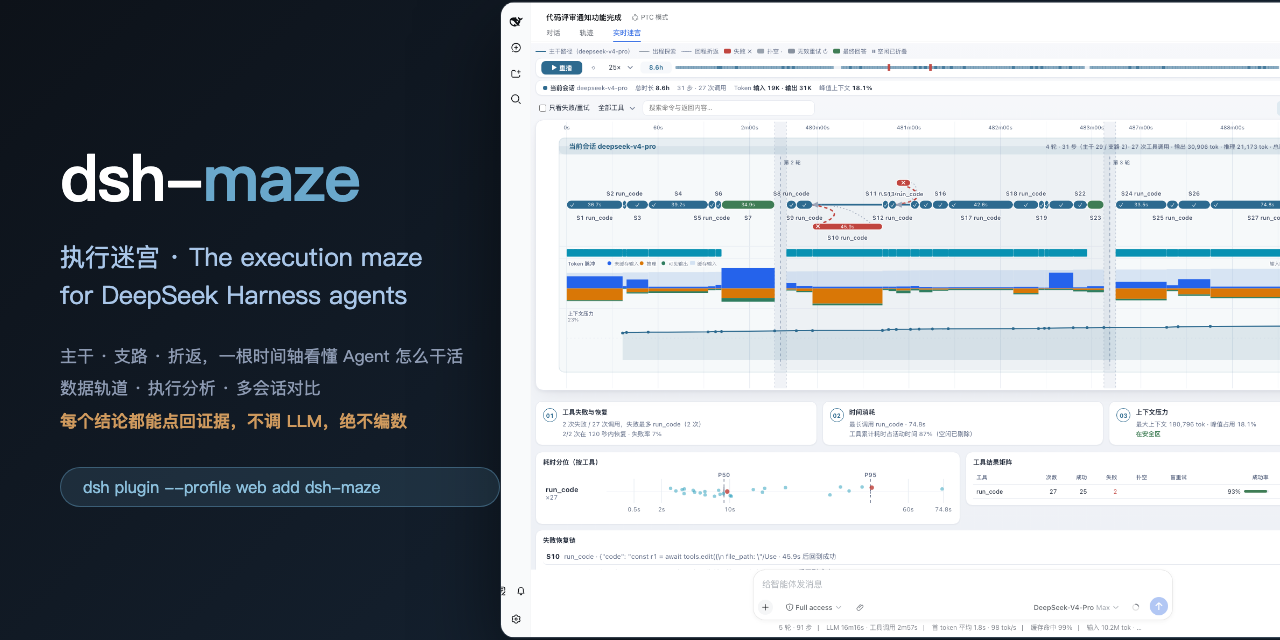
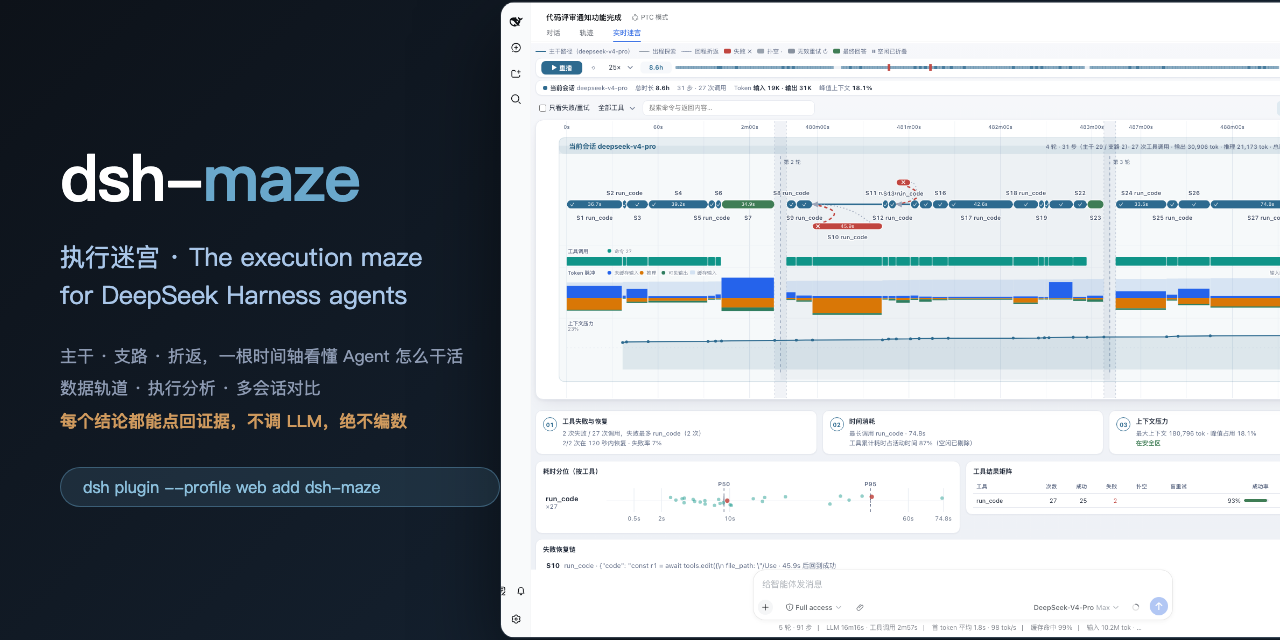
fix(viz): 轨道柱间留缝——密度色条与 Token 柱步步可分（吴昊反馈），全套素材定版重录
相邻步的柱子曾首尾相接连成一条带，看不出步的边界。密度色条右侧
让 1px、Token 柱让 1.5px（太窄时放弃留缝保可见）；缓存背景保持
连续——它是底色参照带不是逐步读数。素材全套按最终布局重录。

diff --git a/src/client/maze-upload.html b/src/client/maze-upload.html
@@ -1788,7 +1788,8 @@ function drawTracks(gTime, gStatic, lane, lay){
       const te = tl.e ?? tl.s
       if (!xVisible(tl.s, te)) continue
       const bx = x(tl.s)
-      const bar = el('rect', { x: bx, y: y0 + 20, width: Math.max(1.6, x(te) - bx), height: 16, rx: 1.5, fill: SVGC.cat[toolCat(tl.name)], opacity: .85 })
+      // 右侧让缝：相邻调用的色条不再连成一条带（太窄时放弃留缝保可见）
+      const bar = el('rect', { x: bx, y: y0 + 20, width: Math.max(1.6, x(te) - bx - 1), height: 16, rx: 1.5, fill: SVGC.cat[toolCat(tl.name)], opacity: .85 })
       bar._tool = tl; bar._toolNode = n; bar._toolLane = lane
       bar.addEventListener('mouseenter', onToolHover)
       bar.addEventListener('mouseleave', offToolHover)
@@ -1823,11 +1824,14 @@ function drawTracks(gTime, gStatic, lane, lay){
     for (const n of samples){
       if (!xVisible(n.s, n.e)) continue
       const bx0 = x(n.s)
-      const bw = Math.max(2.5, x(n.e) - bx0)
+      const raw = x(n.e) - bx0
+      // 柱与柱之间让 1.5px 缝，步的边界肉眼可分（太窄时放弃留缝保可见）；
+      // 缓存背景保持连续不留缝——它是底色参照带，不是逐步读数
+      const bw = Math.max(2, raw - 1.5)
       const g = el('g', {})
       if (mxCache > 0 && (n.cacheTok ?? 0) > 0){
         const ch = Math.max(1, (n.cacheTok ?? 0) / mxCache * upH)
-        g.appendChild(el('rect', { x: bx0, y: zeroY - ch, width: bw, height: ch, fill: SVGC.tokCache, opacity: .4 }))
+        g.appendChild(el('rect', { x: bx0, y: zeroY - ch, width: Math.max(2, raw), height: ch, fill: SVGC.tokCache, opacity: .4 }))
       }
       if ((n.inTok ?? 0) > 0){
         const hh = Math.max(1.5, (n.inTok ?? 0) / mxIn * upH)
